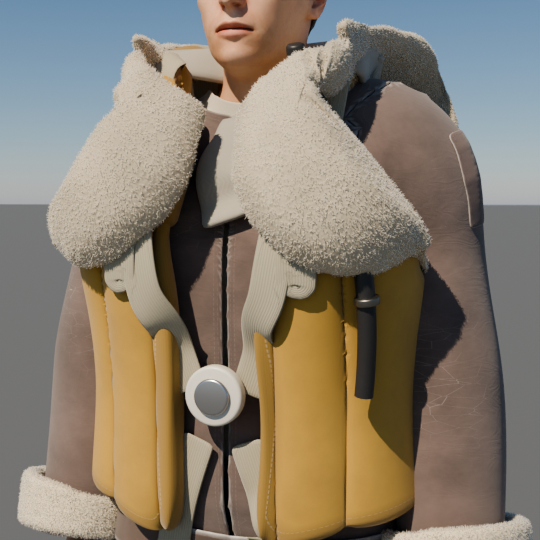
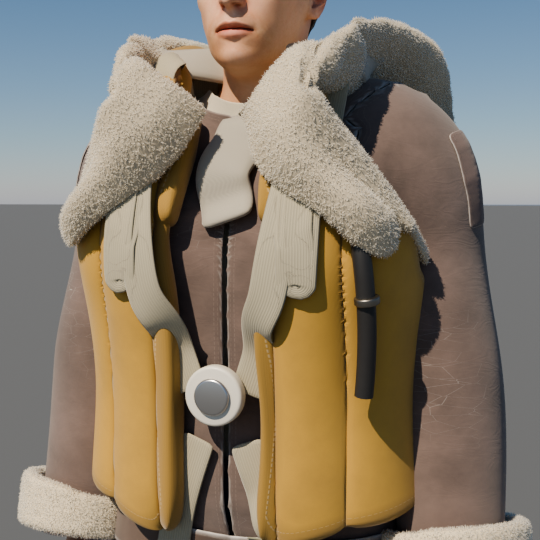
Collar: chosen from clay variants and surface options; fast variant tool; playbook notes (run 009 steps 9-10)
Claude-Session: https://claude.ai/code/session_01CDvtC8YtMDTCkqUDhevinG

diff --git a/runs/009-outfit-detail/detail.py b/runs/009-outfit-detail/detail.py
@@ -17,6 +17,10 @@ from recipes import camera, color, garments, hair, human, materials, render, sta
 from tools.image_stats import stats  # noqa: E402
 
 VIEW = sys.argv[1] if len(sys.argv) > 1 else "chest"
+# Fast shape preview: plain grey clay, no fur, few samples (a few seconds instead of a minute).
+CLAY = os.environ.get("CLAY") == "1"
+# Collar settings to try, e.g. COLLAR="tips=0.74,wings=0.84"
+COLLAR = {k: float(v) for k, v in (kv.split("=") for kv in os.environ.get("COLLAR", "").split(",") if kv)}
 W, H, SAMPLES = (int(a) for a in sys.argv[2:5]) if len(sys.argv) > 4 else ((540, 540, 64) if VIEW != "full" else (540, 720, 48))
 wear = materials.add_wear
 SLIDERS = dict(gender=1.0, age=0.55, muscle=0.6, weight=0.55, height=0.5, caucasian=1, african=0, asian=0)
@@ -66,9 +70,14 @@ cuffs = garments.band(name="cuffs", limb="arm", start=1.70, end=1.97, ease=JACKE
 # Shearling lapel collar lying over the vest (step 7). The first collar was a fur tube.
 # Step 8: step 7's outline, inflated into thick cushions (as step 5 had thickness), sitting
 # low round the neck, with short dense fuzz. Step 7 was flat and rose like a hood.
-collar = garments.lapel_collar(smooth_shell=SMOOTH, neckline=0.98, throat=0.90, roll=0.0, ease=0.088,
-                               thickness=0.012, cushion=0.05, cushion_width=0.055,
-                               material=wear(materials.shearling(relief=0.45, clump=0.004), grime=0.35, grime_color=(0.32, 0.29, 0.24),
+# Chosen from clay variants (runs/compare/collar_variants_2.png): raised, tips swung out, fatter.
+collar_args = dict(neckline=0.98, throat=0.90, roll=0.0, ease=0.088, thickness=0.012, cushion=0.065,
+                   cushion_width=0.055, tips=0.66, wings=0.84, soften=20, tip_angle=160)
+# (tip_angle 135 swung the points outward; the reference's come down toward the V.)
+collar_args.update(COLLAR)
+collar = garments.lapel_collar(smooth_shell=SMOOTH, **collar_args,
+                               material=wear(materials.shearling(relief=float(os.environ.get("RELIEF", "0.6")), clump=0.004),
+                                             grime=0.35, grime_color=(0.32, 0.29, 0.24),
                                              seams=True, seam_width=0.01, cavities=0.6))
 shirt = garments.top(name="shirt", sleeve=0.4, collar=0.99, hem=0.08, ease=0.004, smooth_shell=SMOOTH,
                      material=materials.fabric((0.62, 0.58, 0.48), on="garment"))
@@ -91,11 +100,16 @@ vest_obj.modifiers["Subdivision"].render_levels = 3      # resolution for the ch
 wool = materials.hair_fibre("Wool", (0.56, 0.50, 0.39), roughness=0.95, variation=0.25)
 # No strands on the collar: at this distance the clip's collar reads as smooth pile, and
 # strands made it look like a towel.
-for part_name, count, length in (("_collar", 160000, 0.0035), ("_cuffs", 50000, 0.004)):
+# Collar fuzz, as "count,length_m,radius_m" (FUR env var to try others).
+FUR = [float(x) for x in os.environ.get("FUR", "400000,0.0018,0.00018").split(",")]   # option B chosen over towel-like 3.5 mm strands
+for part_name, count, length in (() if CLAY else (("_collar", int(FUR[0]), FUR[1]), ("_cuffs", 50000, 0.004))):
+    if count <= 0:
+        continue            # Blender crashes on an empty hair-curves object
     obj = next(o for o in pilot.children if o.name.endswith(part_name))
     v, f = hair.evaluated_mesh(obj)
     roots, normals = hair.sample_surface(v, f, count, seed=len(part_name))
-    hair.grow(scene, "Fur" + part_name, roots, normals, length=length, radius=0.0004, material=wool,
+    hair.grow(scene, "Fur" + part_name, roots, normals, length=length,
+              radius=FUR[2] if part_name == "_collar" and len(FUR) > 2 else 0.0004, material=wool,
               comb=(0.0, 0.0, -0.05), curl=0.45, steps=4, seed=2, length_jitter=0.25)
 
 # --- step 4: harness, release box, inflation hose, belt with cartridges ----------------
@@ -241,6 +255,10 @@ target, eye, lens = VIEWS[VIEW]
 aim = stage.empty_at(scene, "Aim", target)
 camera.camera_at(scene, eye, aim, lens=lens)
 color.set_view(scene, "AgX", look="Medium High Contrast")
+if CLAY:
+    clay = materials.plain("Clay", (0.5, 0.5, 0.5), 0.6)
+    bpy.context.view_layer.material_override = clay
+    W, H, SAMPLES = 360, 360, 8
 render.cycles_cpu(scene, width=W, height=H, samples=SAMPLES)
-out = render.render_to(scene, os.path.join(HERE, f"detail_{VIEW}.png"))
+out = render.render_to(scene, os.environ.get("OUT") or os.path.join(HERE, f"detail_{VIEW}.png"))
 print("STATS " + json.dumps({"image": stats(out)}))

diff --git a/tools/variants.py b/tools/variants.py
@@ -1,0 +1,32 @@
+"""Render several variants of one setting as fast clay previews and tile them next to a
+reference crop, so shapes can be compared side by side in one image.
+
+Usage: python tools/variants.py SCRIPT VIEW REFERENCE_CROP OUT.png "label=settings" ...
+Each settings string is passed to SCRIPT in the COLLAR environment variable.
+"""
+import os
+import subprocess
+import sys
+import tempfile
+import time
+
+from PIL import Image, ImageDraw
+
+script, view, reference, out = sys.argv[1:5]
+variants = [a.split("=", 1) for a in sys.argv[5:]]
+tiles = [("REFERENCE", Image.open(reference).convert("RGB").resize((360, 360)))]
+with tempfile.TemporaryDirectory() as tmp:
+    for label, settings in variants:
+        path = os.path.join(tmp, f"{len(tiles)}.png")
+        started = time.time()
+        env = dict(os.environ, CLAY="1", COLLAR=settings.replace(";", ","), OUT=path)
+        subprocess.run([sys.executable, script, view], env=env, check=True,
+                       stdout=subprocess.DEVNULL)
+        tiles.append((f"{label} ({time.time() - started:.0f}s)", Image.open(path).convert("RGB")))
+sheet = Image.new("RGB", (len(tiles) * 370, 400), (20, 20, 20))
+draw = ImageDraw.Draw(sheet)
+for i, (label, im) in enumerate(tiles):
+    sheet.paste(im, (i * 370, 36))
+    draw.text((i * 370 + 8, 10), label, fill=(235, 235, 235))
+sheet.save(out)
+print(out)

diff --git a/recipes/garments.py b/recipes/garments.py
@@ -489,7 +489,7 @@ def lapel_collar(name="collar", tips=0.64, wings=0.80, back=0.86, neckline=1.02,
                        smooth_shell=smooth_shell)
     # Relax the crumpling where the neck shell bends sharply, with the edge held still.
     # (Plain smoothing, tried first, pulled the edge in unevenly and left it ragged.)
-    spec["relax"] = soften
+    spec["relax"] = int(soften)
     # cushion: how far the middle of each lobe swells out, in metres; with a rounded
     # profile this gives the thick, pillowy roll of real shearling instead of a flat flap.
     spec["puff"], spec["puff_width"], spec["puff_shape"] = cushion, cushion_width, 0.5

diff --git a/recipes/hair.py b/recipes/hair.py
@@ -47,6 +47,8 @@ def grow(scene, name, roots, normals, length, radius, material, comb=(0.0, 0.0, 
     """
     rng = np.random.default_rng(seed)
     n = len(roots)
+    if n == 0:
+        raise ValueError("no strands to grow: Blender crashes on an empty hair-curves object")
     lengths = np.broadcast_to(np.asarray(length, dtype=float), (n,)) * (
         1.0 + length_jitter * (rng.random(n) * 2.0 - 1.0))
     comb = np.broadcast_to(np.asarray(comb, dtype=float), (n, 3))

diff --git a/playbooks/outfit.md b/playbooks/outfit.md
@@ -103,6 +103,16 @@ Worked example: `runs/009-outfit-detail/trousers.py` and `upper.py`.
 - Small test render at 432x540, 48 samples (about 20 s) before any full-size render.
 - Put the test next to the reference: `tools/side_by_side.py`.
 
+## Iterating on a shape (learned on the collar, run 009 steps 7 to 10)
+
+- Never replace the best version without a side-by-side against it and the reference.
+  Step 7 replaced a better step 5; the fix was to merge their good parts.
+- Shape first, in clay: `tools/variants.py SCRIPT VIEW REFERENCE OUT "label=k=v;k=v" ...`
+  renders four variants in about a minute (CLAY=1: grey, no fur, 8 samples).
+- Surface second, in full renders, again as options side by side.
+- Collar settings that worked: cushion 0.065, tips 0.66, wings 0.84, tip_angle 160,
+  soften 20; fuzz 400,000 strands, 1.8 mm long, 0.18 mm radius; pile relief 0.6.
+
 ## Failure signatures and fixes
 
 | What you see | Cause | Fix |
@@ -129,6 +139,13 @@ Worked example: `runs/009-outfit-detail/trousers.py` and `upper.py`.
 | Straps or box vanish into the vest | Padded channels are added at render time, not in the surface straps are laid on | Lift straps by channel depth plus a margin (1.8 cm) |
 | Release box hidden | Ray at the centre hits inside the vest opening | Anchor it where the shoulder straps end |
 | Cartridges merge into one bar | Spaced sideways | Stack them vertically |
+| Collar reads as a fur tube | Band of equal depth all round | `lapel_collar` with a drawn outline |
+| Collar flat like paper, rises like a hood | No volume; roll too high | `cushion` 0.05 to 0.065, roll 0, neckline 0.98 |
+| Huge flat planes bridging a V opening | Triangulation kept triangles outside the outline | Fixed: only triangles inside the outline are kept |
+| Spikes all over a smoothed piece | Blender's Laplacian smooth modifier on this mesh | Edge-pinned smoothing in `garments.build` (`relax`) |
+| Lapel points flare outward | tip_angle too small (135) | 160 points them down toward the V |
+| Shearling looks like a terry towel | Strands 3.5 mm long, 0.4 mm thick | 1.8 mm long, 0.18 mm thick, many more |
+| Segmentation fault, no message | Growing zero hair strands | Skip; `hair.grow` now refuses an empty set |
 
 ## Time per step on this machine (4 CPU cores, no graphics card)
 
